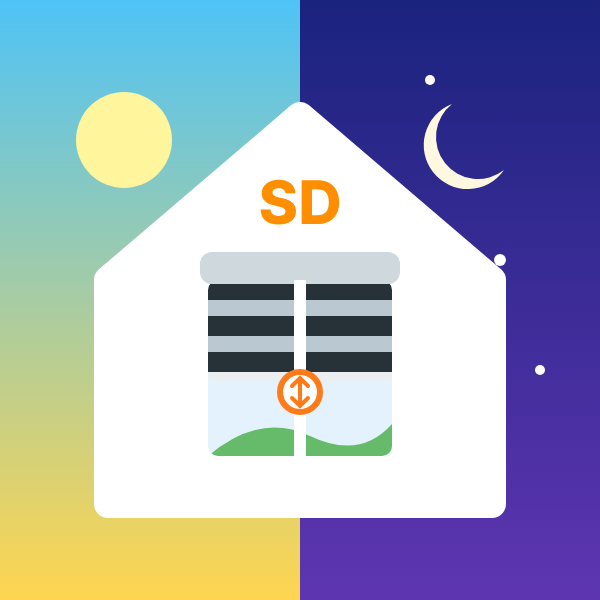
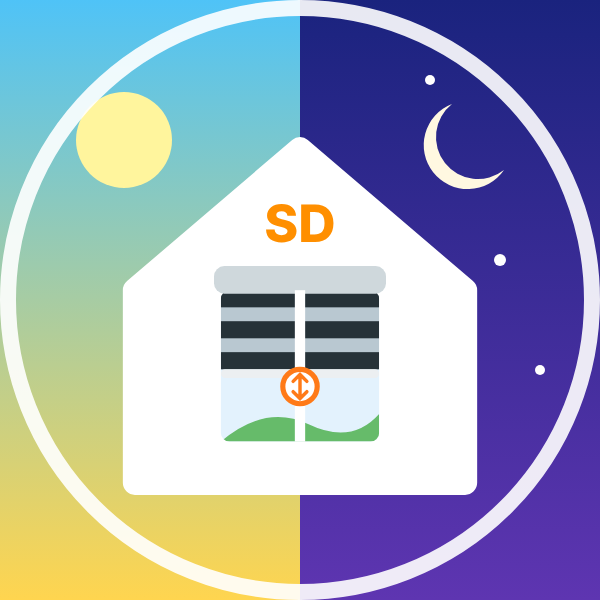
Awatar okrągły, wyśrodkowany, z obwódką
Claude-Session: https://claude.ai/code/session_011kdECsj6qXkrucqiniWbdX

Changed region(s): [[0.0, 0.0, 1.0, 1.0]]

diff --git a/README.md b/README.md
@@ -1,4 +1,4 @@
-<p align="center"><img src="img/avatar.png" width="140" alt="superdarco78"></p>
+<p align="center"><img src="img/avatar-kolo.png" width="160" alt="superdarco78"></p>
 <h1 align="center">Cześć, tu Darek 👋</h1>
 <p align="center"><b>Home Assistant · karty Lovelace · inteligentny dom</b><br>
 Robię karty do Home Assistanta, które wyglądają jak prawdziwe rzeczy w domu i dają się ustawić klikając, bez YAML.</p>
